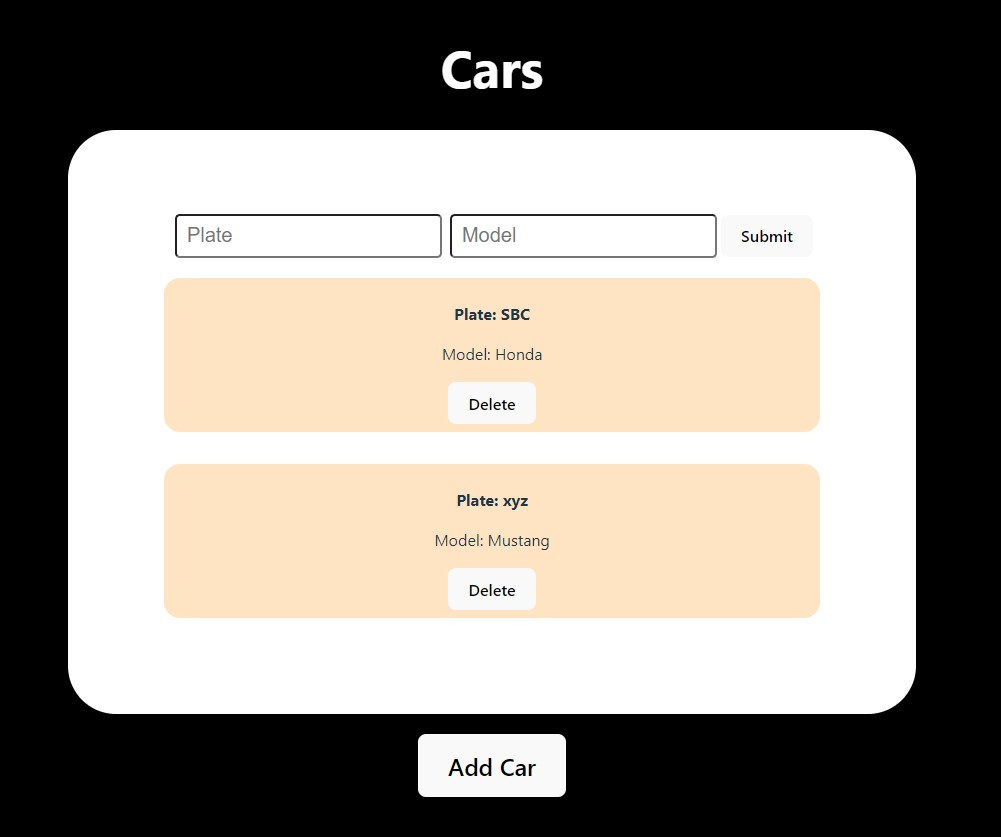
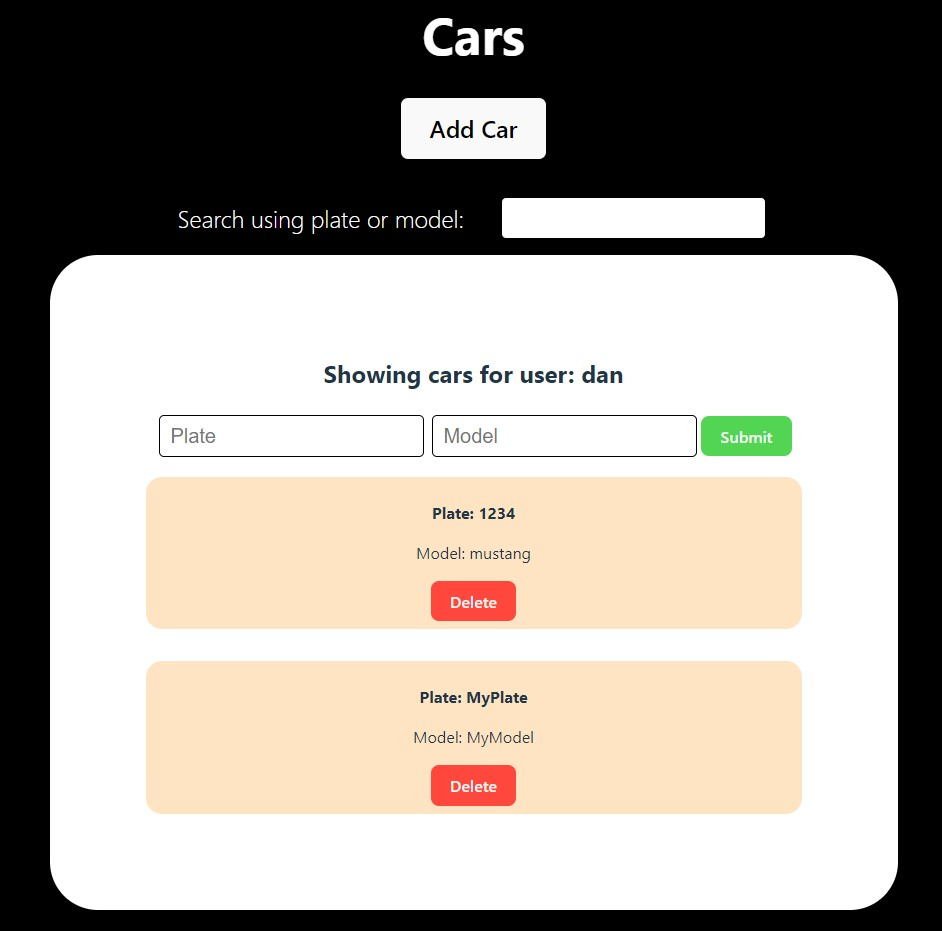
more button styling and etc

diff --git a/src/components/CarInput.jsx b/src/components/CarInput.jsx
@@ -4,7 +4,7 @@ function CarInput(props){
     <div id='adding' style={{visibility:"hidden"}}>
       <input value={props.plate} onChange={e => props.setPlate(e.target.value)} className='inputs' type='text' placeholder="Plate"/>
       <input value={props.model} onChange={e => props.setModel(e.target.value)} className='inputs' type='text' placeholder="Model"/>
-      <button onClick={() => {props.onSubmitClick()}}>Submit</button>
+      <button id="submit-btn" onClick={() => {props.onSubmitClick()}}>Submit</button>
     </div>
   )
 }

diff --git a/src/App.css b/src/App.css
@@ -34,6 +34,10 @@
   }
 }
 
+#submit-btn{
+  background-color: rgba(5, 255, 5, 0.695);
+}
+
 .card {
   padding: 0.5em 6em;
   background-color:bisque;
@@ -78,9 +82,16 @@ body{
   height: 20px;
   margin: 4px;
   border-radius: 5px;
+  /* border: none; */
   padding: 10px;
   font-size: 20px;
+  border: 1px solid black
 }
+input:focus{
+  border: 1px solid black
+  /* border-color: black; */
+}
+/* .search */
 
 
 .id{

diff --git a/src/index.css b/src/index.css
@@ -38,6 +38,11 @@ h1 {
 
 .delete{
   background-color: #ff0000b0;
+}
+#submit-btn{
+  background-color: rgba(6, 194, 6, 0.695);
+}
+.delete, #submit-btn{
   font-weight:600;
   color: whitesmoke;
   border:transparent;
@@ -46,6 +51,9 @@ h1 {
 }
 .delete:hover{
   background-color: #da0000b0;
+}
+#submit-btn:hover{
+  background-color: rgba(1, 178, 1, 0.695);
 }
 
 button {
